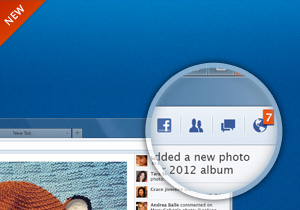
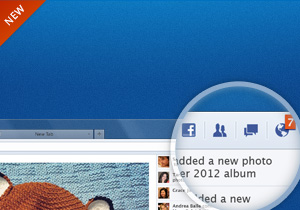
Update design/copy of social promo (Bug 808688)

diff --git a/media/js/tabzilla.js b/media/js/tabzilla.js
@@ -530,7 +530,8 @@ Tabzilla.content =
     + '  <div id="tabzilla-promo">'
     + '    <div class="snippet" id="tabzilla-promo-social">'
     + '    <a href="http://www.facebook.com/fxmessenger">'
-    + '     <h4>Facebook Messenger<br>for Firefox<br>is here! »</h4>'
+    + '     <h4>Facebook Messenger for Firefox</h4>'
+    + '     <p>Visit Facebook to turn it on »</p>'
     + '    </a>'
     + '    </div>'
     + '  </div>'

diff --git a/media/css/tabzilla.css b/media/css/tabzilla.css
@@ -360,7 +360,7 @@
     background-color: #69acc7;
     color: #fff;
     font-size: 12px;
-    padding: 15px 12px 30px 40px;
+    padding: 20px 12px 25px 30px;
     height: 165px;
     line-height: 20px;
     text-shadow: none;
@@ -375,6 +375,8 @@
     font-weight: normal;
     text-shadow: none;
     width: auto;
+    margin-bottom: 5px;
+    line-height: 1.05;
 }
 
 
